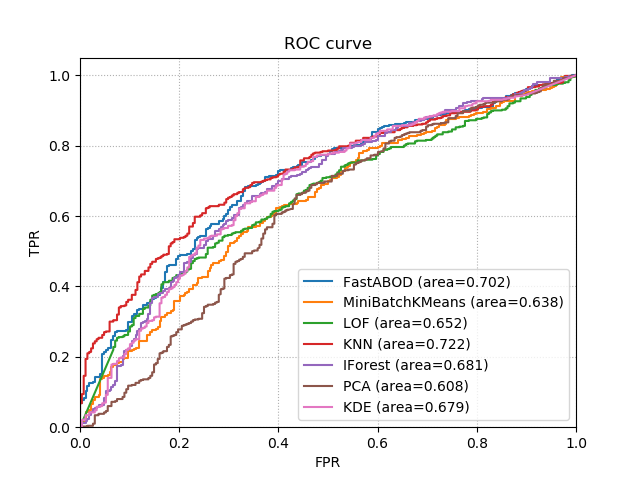
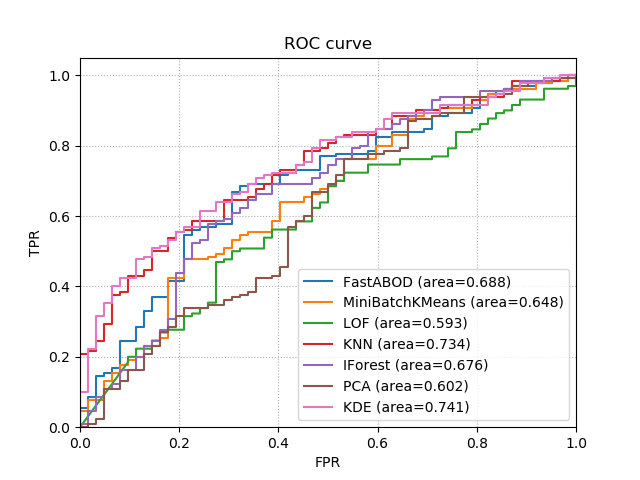
fix README.md

diff --git a/README.rst b/README.rst
@@ -72,51 +72,41 @@ Examples
     import matplotlib.pyplot as plt
     import numpy as np
     from kenchi.datasets import load_pima
-    from kenchi.metrics import NegativeMVAUCScorer
     from kenchi.outlier_detection import *
     from kenchi.pipeline import make_pipeline
-    from scipy.stats import randint
-    from sklearn.model_selection import RandomizedSearchCV
+    from sklearn.model_selection import train_test_split
     from sklearn.preprocessing import StandardScaler
 
     np.random.seed(0)
 
-    X, y              = load_pima(return_X_y=True)
-    _, n_features     = X.shape
+    scaler = StandardScaler()
 
-    scaler            = StandardScaler()
-    detectors         = [
+    detectors = [
         FastABOD(novelty=True, n_jobs=-1), MiniBatchKMeans(),
-        LOF(novelty=True, n_jobs=-1),      KNN(novelty=True, n_jobs=-1),
-        IForest(n_jobs=-1),                PCA(),
+        LOF(novelty=True, n_jobs=-1), KNN(novelty=True, n_jobs=-1),
+        IForest(n_jobs=-1), PCA(),
         KDE()
     ]
 
-    param_grids       = [
-        {'fastabod__n_neighbors':       randint(3, 101)},
-        {'minibatchkmeans__n_clusters': randint(1, 21)},
-        {'lof__n_neighbors':            randint(1, 101)},
-        {'knn__n_neighbors':            randint(1, 101)},
-        {'iforest__max_features':       randint(1, n_features + 1)},
-        {'pca__n_components':           randint(1, n_features + 1)},
-        {'kde__bandwidth':              10. ** np.arange(-2, 2, 0.01)}
-    ]
+    # Load the Pima Indians diabetes dataset.
+    X, y = load_pima(return_X_y=True)
+    X_train, X_test, _, y_test = train_test_split(X, y)
 
-    scorer            = NegativeMVAUCScorer()
+    # Get the current Axes instance
+    ax = plt.gca()
 
-    f, ax             = plt.subplots()
+    for det in detectors:
+        # Fit the model according to the given training data
+        pipeline = make_pipeline(scaler, det).fit(X_train)
 
-    for detector, param_grid in zip(detectors, param_grids):
-        pipeline      = make_pipeline(scaler, detector)
-        random_search = RandomizedSearchCV(
-            pipeline, param_grid, scoring=scorer
-        ).fit(X)
+        # Plot the Receiver Operating Characteristic (ROC) curve
+        pipeline.plot_roc_curve(X_test, y_test, ax=ax)
 
-        random_search.best_estimator_.plot_roc_curve(X=None, y=y, ax=ax)
-
+    # Display the figure
     plt.show()
 
-.. image:: https://raw.githubusercontent.com/Y-oHr-N/kenchi/master/docs/images/readme.png
+.. figure:: https://raw.githubusercontent.com/Y-oHr-N/kenchi/master/docs/images/readme.png
+    :align: center
 
 License
 -------
@@ -141,7 +131,7 @@ References
     2017.
 
 .. [#goix16] Goix, N.,
-    "How to evaluate the quality of unsupervised anomaly detection algorithms?"
+    `"How to evaluate the quality of unsupervised anomaly detection algorithms?" <https://arxiv.org/abs/1607.01152>`_
     In ICML Anomaly Detection Workshop, 2016.
 
 .. [#goldstein12] Goldstein, M., and Dengel, A.,
